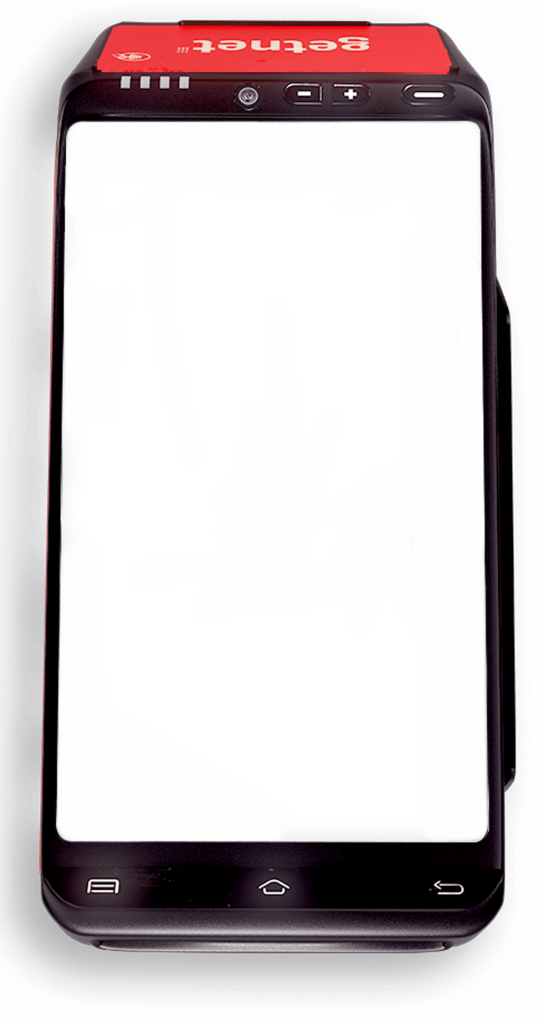
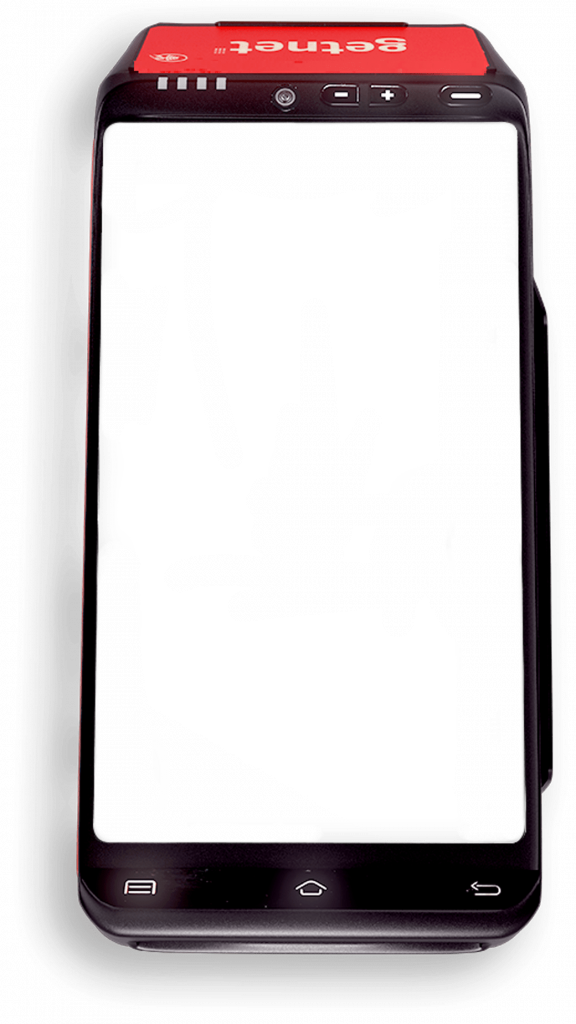
Creating Header Image Component

diff --git a/src/components/UserRegister.jsx b/src/components/UserRegister.jsx
@@ -1,5 +1,6 @@
 import React, { Component } from 'react';
 import './style_sheets/UserRegister.css'
+import HeaderImage from './HeaderImage';
 
 function register(name, cpf, email, whatsapp) {
   const obj = {
@@ -34,6 +35,7 @@ export default class UserRegister extends Component {
     } = this.state;
     return (
       <div className="mobile-page">
+        <HeaderImage />
         <form>
           <div>
             <p>Nome</p>

diff --git a/src/components/HeaderImage.jsx b/src/components/HeaderImage.jsx
@@ -1,0 +1,12 @@
+import React from 'react';
+import LogoRW from '../images/Logo/GetLoyal_r-w.png';
+import LogoWR from '../images/Logo/GetLoyal_w-r.png'
+
+
+export default class HeaderImage extends React.Component {
+  render() {
+    return (
+      <img src={LogoRW} width="200px" alt="GetLoyal logo" />
+    )
+  }
+}

diff --git a/src/App.css b/src/App.css
@@ -3,7 +3,7 @@
   height: 100vh;
   width: 40%;
   margin: auto;
-  background-image: url('./images/new-machine-test.png');
+  background-image: url('./images/bg-white.png');
   background-repeat: none;
   background-position-y: center;
   background-position-x: -1.5vw;

diff --git a/src/components/index.js b/src/components/index.js
@@ -1,0 +1,3 @@
+export {default as HeaderImage} from './HeaderImage';
+export {default as ApiTester} from './ApiTester';
+export {default as UserRegister} from './UserRegister';
